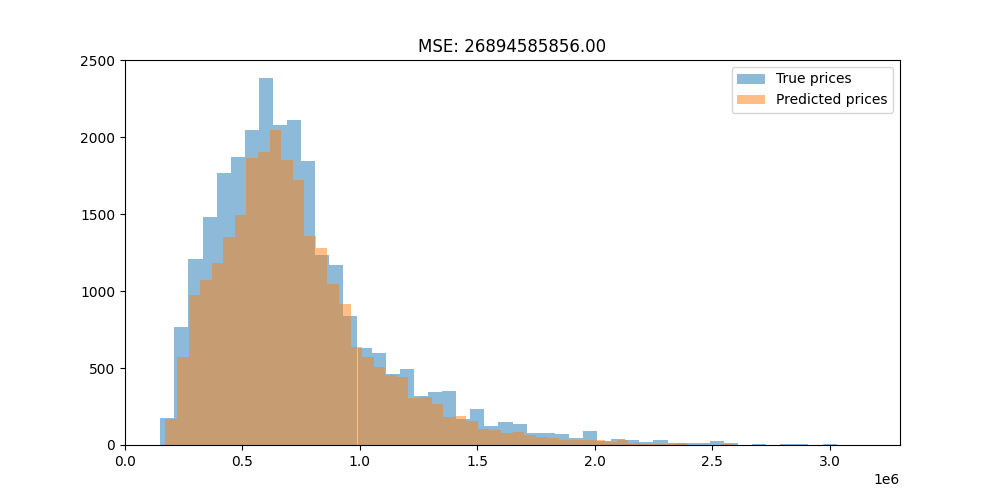
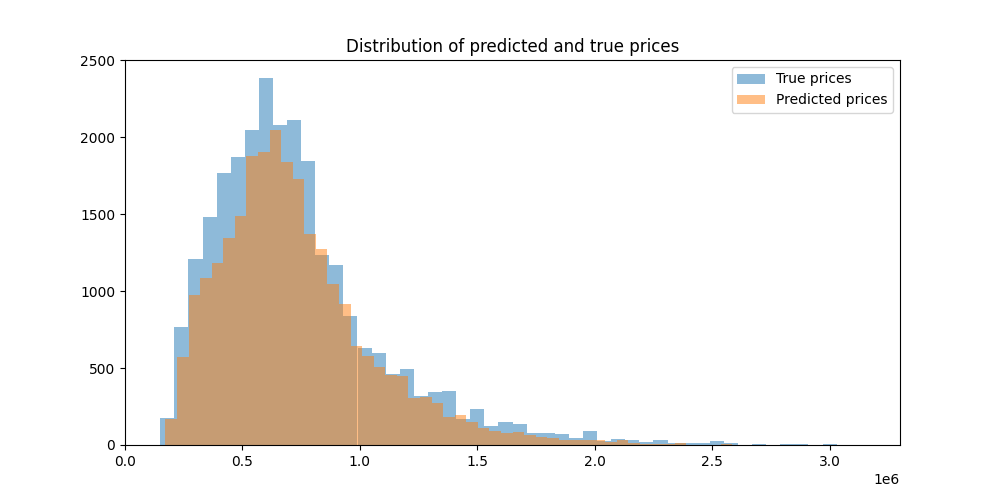
metrics

Changed region(s): [[0.341, 0.06, 0.682, 0.12]]

diff --git a/scripts/train.py b/scripts/train.py
@@ -1,3 +1,4 @@
+import json
 from sklearn.neighbors import KNeighborsRegressor
 from sklearn.metrics import mean_squared_error
 from tqdm import tqdm
@@ -33,13 +34,33 @@ def train_knn(train_dataloader, autoencoder, device, n_neighbors=5):
 def visualize_results(test_data, autoencoder, knn, device):
     X_test, y_test = encode_data(autoencoder, test_data, device)
     y_pred = knn.predict(X_test)
-    mse = mean_squared_error(y_test, y_pred)
     fig, ax = plt.subplots(figsize=(10, 5))
     ax.hist(y_test, bins=50, alpha=0.5, label="True prices")
     ax.hist(y_pred, bins=50, alpha=0.5, label="Predicted prices")
-    ax.set_title(f"MSE: {mse:.2f}")
+    ax.set_title("Distribution of predicted and true prices")
     ax.legend()
     plt.savefig("results.png")
+
+    mse = mean_squared_error(y_test, y_pred)
+    mae = np.mean(np.abs(y_test - y_pred))
+    mape = np.mean(np.abs((y_test - y_pred) / y_test)) * 100
+    huber_loss = np.mean(
+        np.where(
+            np.abs(y_test - y_pred) < 1,
+            0.5 * (y_test - y_pred) ** 2,
+            np.abs(y_test - y_pred) - 0.5,
+        )
+    )
+
+    report = {
+        "Mean squared error": format(mse, ".2f"),
+        "Mean absolute error": format(mae, ".2f"),
+        "Mean absolute percentage error": format(mape, ".2f"),
+        "Huber loss": format(huber_loss, ".2f"),
+    }
+
+    with open("report.json", "w") as f:
+        json.dump(report, f)
 
 
 if __name__ == "__main__":
